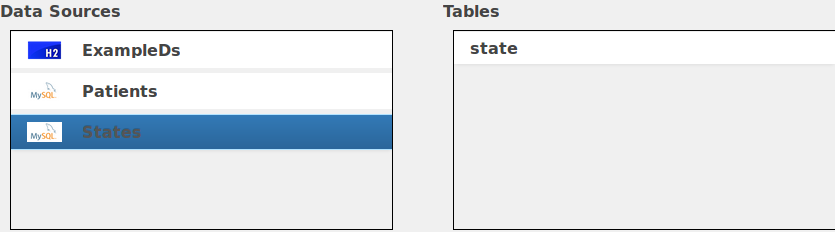
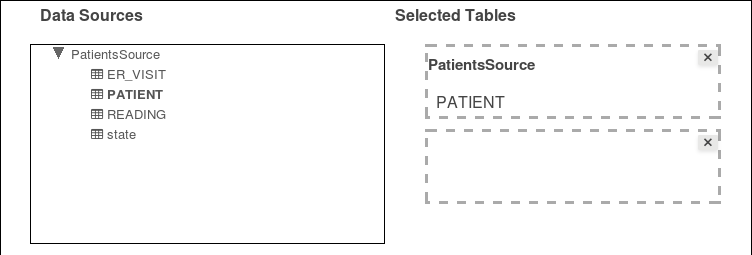
changes data service help

diff --git a/vdb-bench-doc/src/main/resources/markdown/dataservices-new-help.md b/vdb-bench-doc/src/main/resources/markdown/dataservices-new-help.md
@@ -1,16 +1,12 @@
 ### <p style="text-align: center">![New icon](images/NewIcon.png "New Data Service") New Data Service Page</p>
 
-You can create a new data service by selecting a data source and a data table. Adding a data service description is optional.
+The Data service wizard will guide you through the process of creating a new data service. Enter a name for your data service.  A description (optional) can also be entered.
 
-The available data sources are identified in the **Data Sources** list.
-
-![Data Sources List image](images/DataSourcesList.png "Available Data Sources")
-
-If you see the data source you are looking for, go ahead and select it. This will display that data source's tables in the **Tables** list.
+The available data sources are identified in the **Data Sources** list.  To select a table that provides the data of interest, expand the available sources and click a table.  It will then be added to the **Selected Tables** shown on the right.
 
 ![Data Sources and Tables image](images/DataSourcesAndTablesLists.png "Data Sources and Tables")
 
-Now you can select the table that provides the data you are looking for. Once the table is selected, enter a name for the data service and click ![Create Data Service image](images/CreateButton.png "Create Data Service") to save your new data service. This will take you to the [Data Service Summary](dataservices-summary-help.html) page which will show the new data service if one was successfully created.
+The wizard steps will change depending on whether you select one or two tables.  Currently the maximum number of tables you can select is two.  Once you have finished entering information, click ![Create Data Service image](images/CreateButton.png "Create Data Service") to save your new data service. This will take you to the [Data Service Summary](dataservices-summary-help.html) page which will show the new data service if one was successfully created.
 
 If the data source you are looking for does not exist, you can create it by using one of the existing connections on your server. Clicking [![Configure Data Source image](images/ConfigureDataSource.png "Configure Data Source")](svcsource-new-help.html) will take you to a page you can do that.
 
